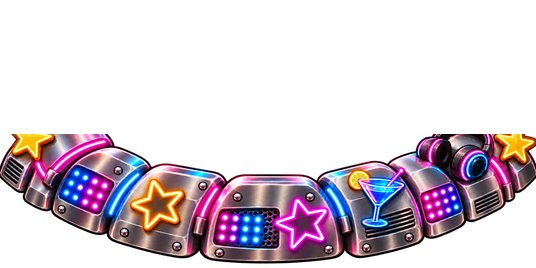
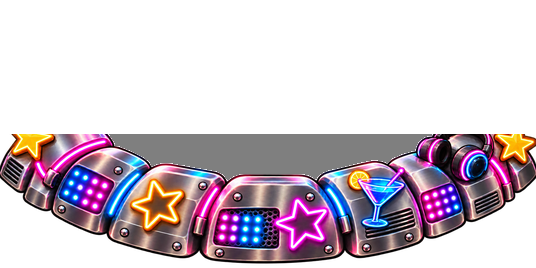
두더지팡: 나이트 구멍 내부만 50% 불투명도로 조정, v651

Changed region(s): [[0.209, 0.4776, 0.806, 0.6866]]

diff --git a/mole/index.html b/mole/index.html
@@ -580,7 +580,7 @@
       <div id="lane-button-bar">
         <!-- 배포 버전 표식(스크린샷으로 어느 버전인지 확인용) — 화면 좌하단에 두면 다른 UI에
              가려 잘 안 보인다는 사용자 지적으로, 하트 아이콘(다이얼패드 1번 칸) 바로 위로 이동. -->
-        <div id="build-tag" aria-hidden="true">v650</div>
+        <div id="build-tag" aria-hidden="true">v651</div>
         <!-- 피버타임(터치캐치 보너스타임) 전광판 — 버튼보드 자리를 통째로 덮는 오버레이,
              평소엔 hidden, 피버 중에만 콤보/잔여시간 표시(사용자 지정: "전광판처럼"). -->
         <div id="fever-scoreboard" class="fever-scoreboard" hidden>
@@ -749,7 +749,7 @@
       } else {
         // ?v= 로 매 배포마다 URL을 바꿔서 GitHub Pages의 sw.js 캐시(max-age=600)를 무조건 우회 —
         // 안 그러면 배포 직후에도 최대 10분간 옛 서비스워커가 안 갈리는 경우가 있었음(사용자 보고).
-        navigator.serviceWorker.register('sw.js?v=650').catch(function () {});
+        navigator.serviceWorker.register('sw.js?v=651').catch(function () {});
       }
     });
   }

diff --git a/mole/sw.js b/mole/sw.js
@@ -3,7 +3,7 @@
 // 폴백 전용으로만 갱신한다. (예전엔 stale-while-revalidate라 배포해도 "다음 실행"에야
 // 반영돼 사용자 체감 대기가 길었음 — 온라인=항상 최신, 오프라인=마지막 캐시로 변경.)
 // SHELL 목록 자체가 바뀔 때만 CACHE 를 올린다.
-const CACHE = 'mole-game-v650';
+const CACHE = 'mole-game-v651';
 
 // 화면별 BGM(audio/bgm-*.mp3)은 v275 부터 SHELL 에 포함 — 기본 켜짐(v272)이라 항상 필요하고,
 // 캐시가 안 돼 있으면 오프라인/느린망에서 재생 실패했음.
